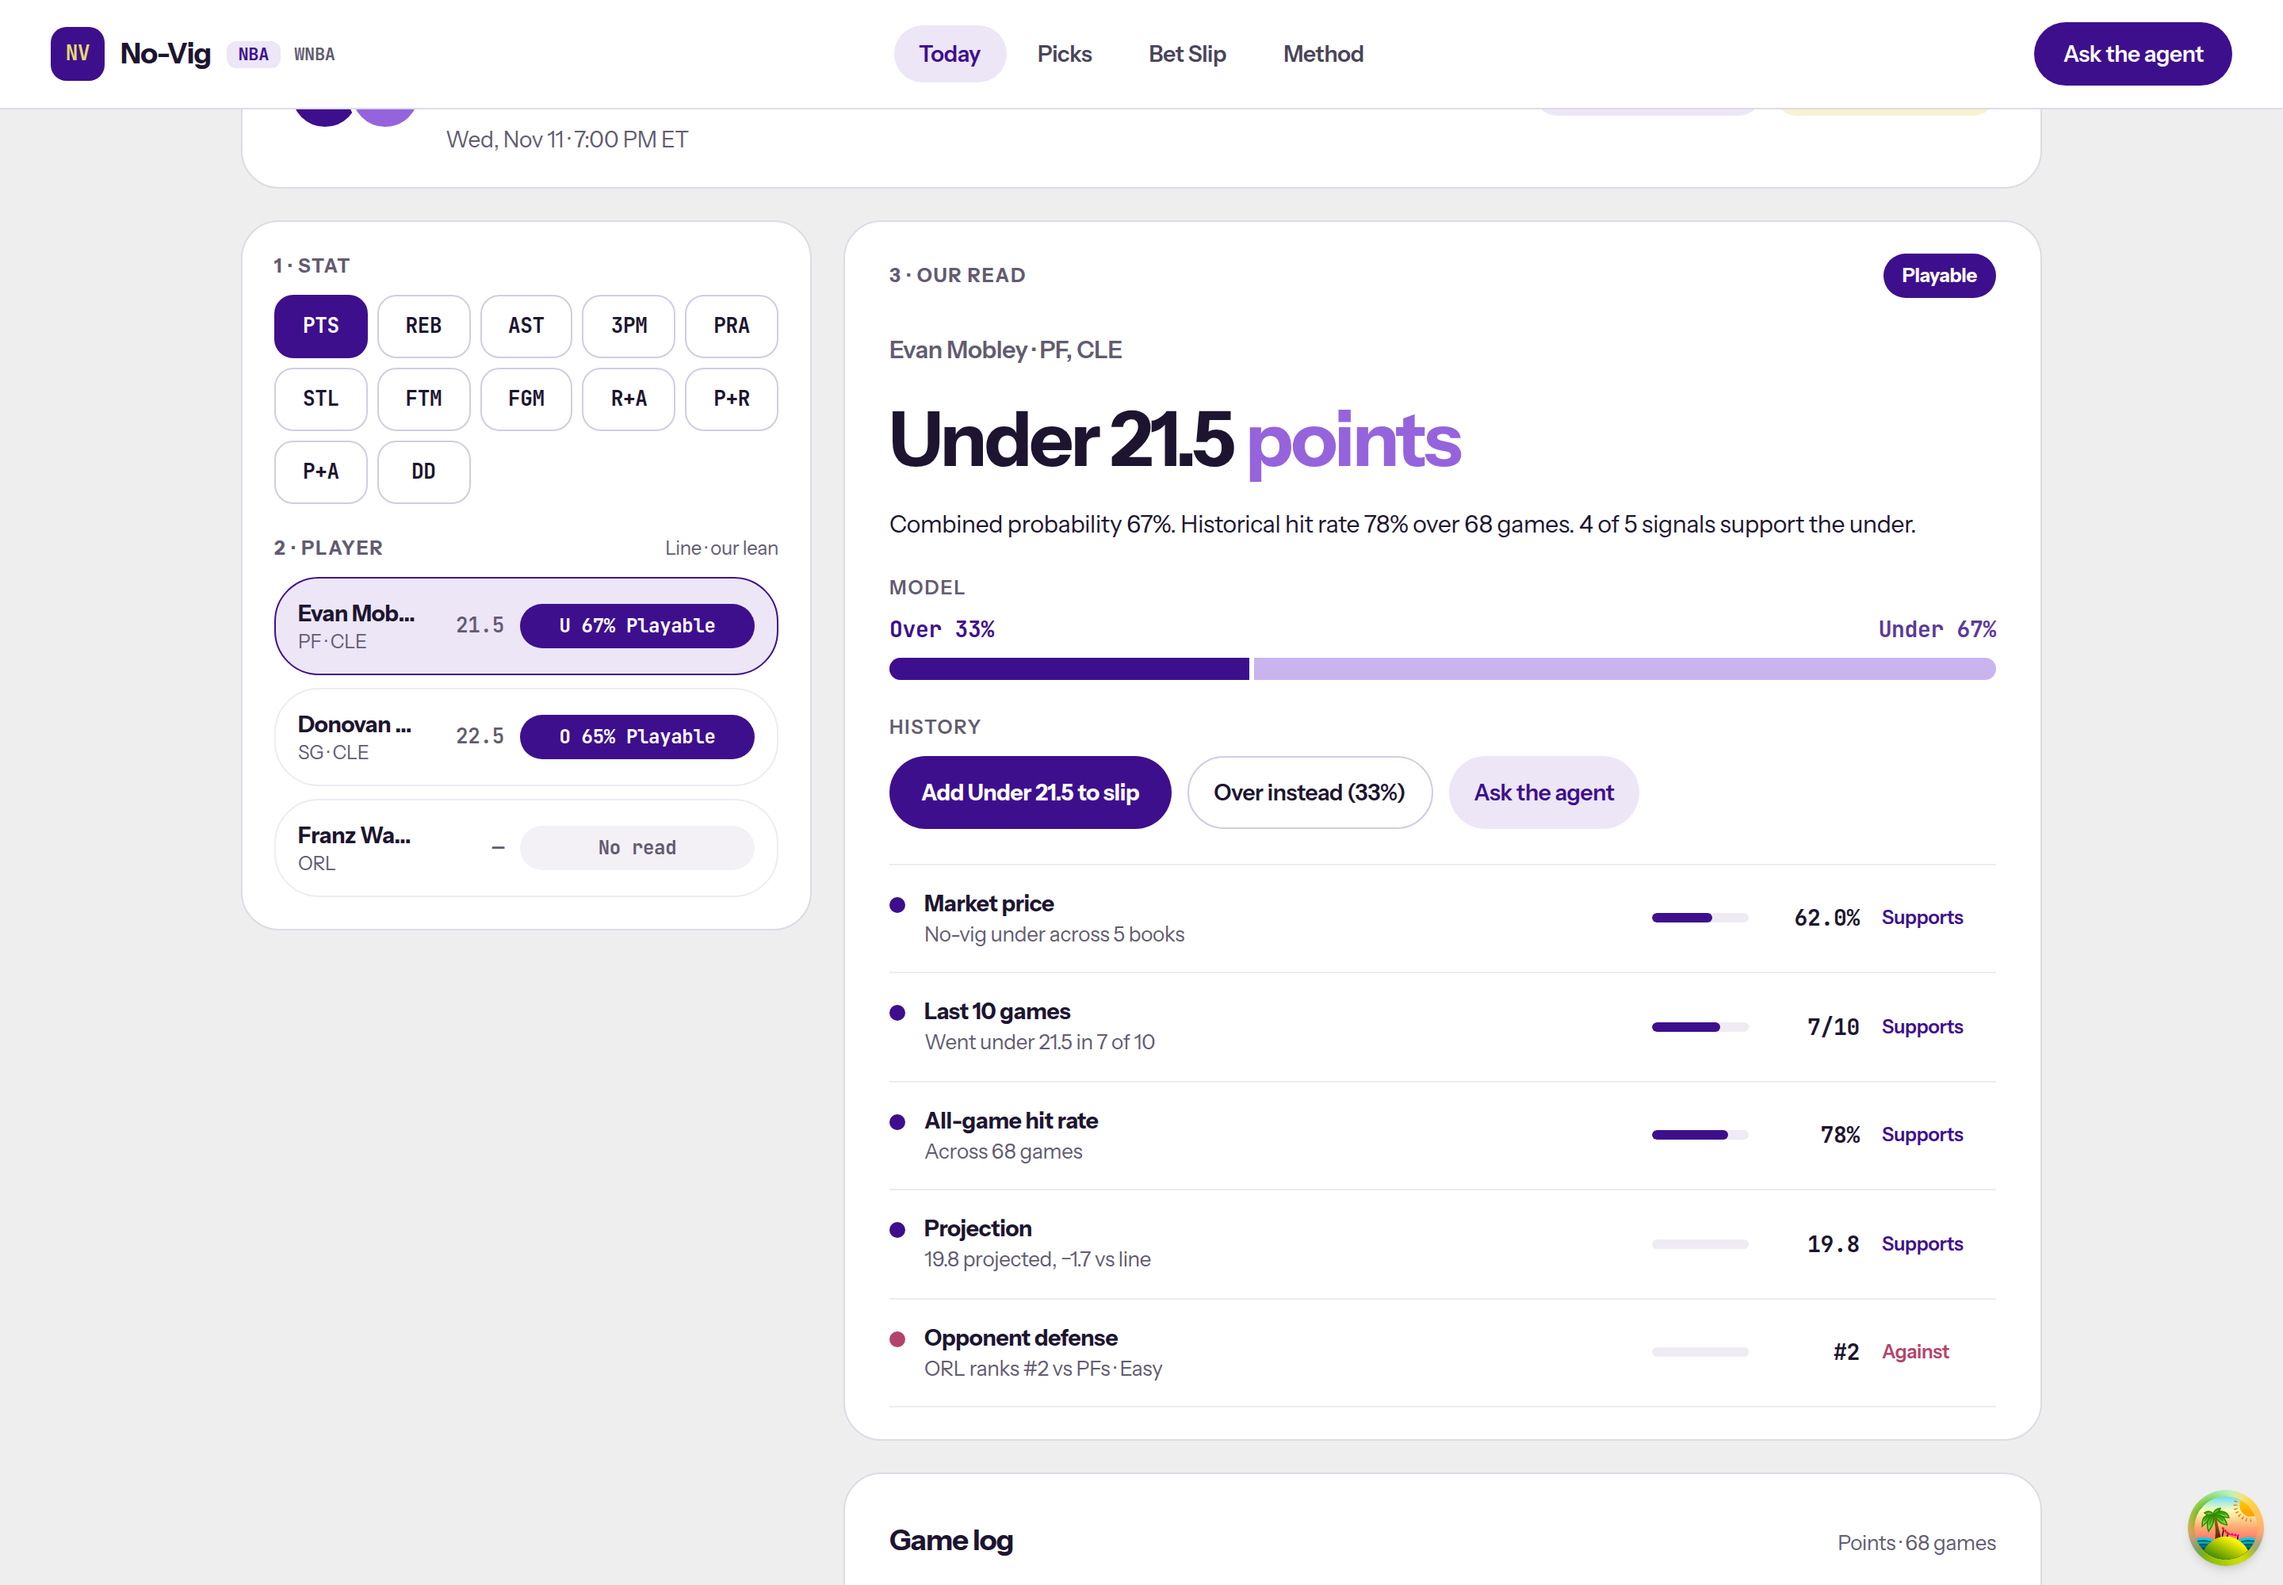
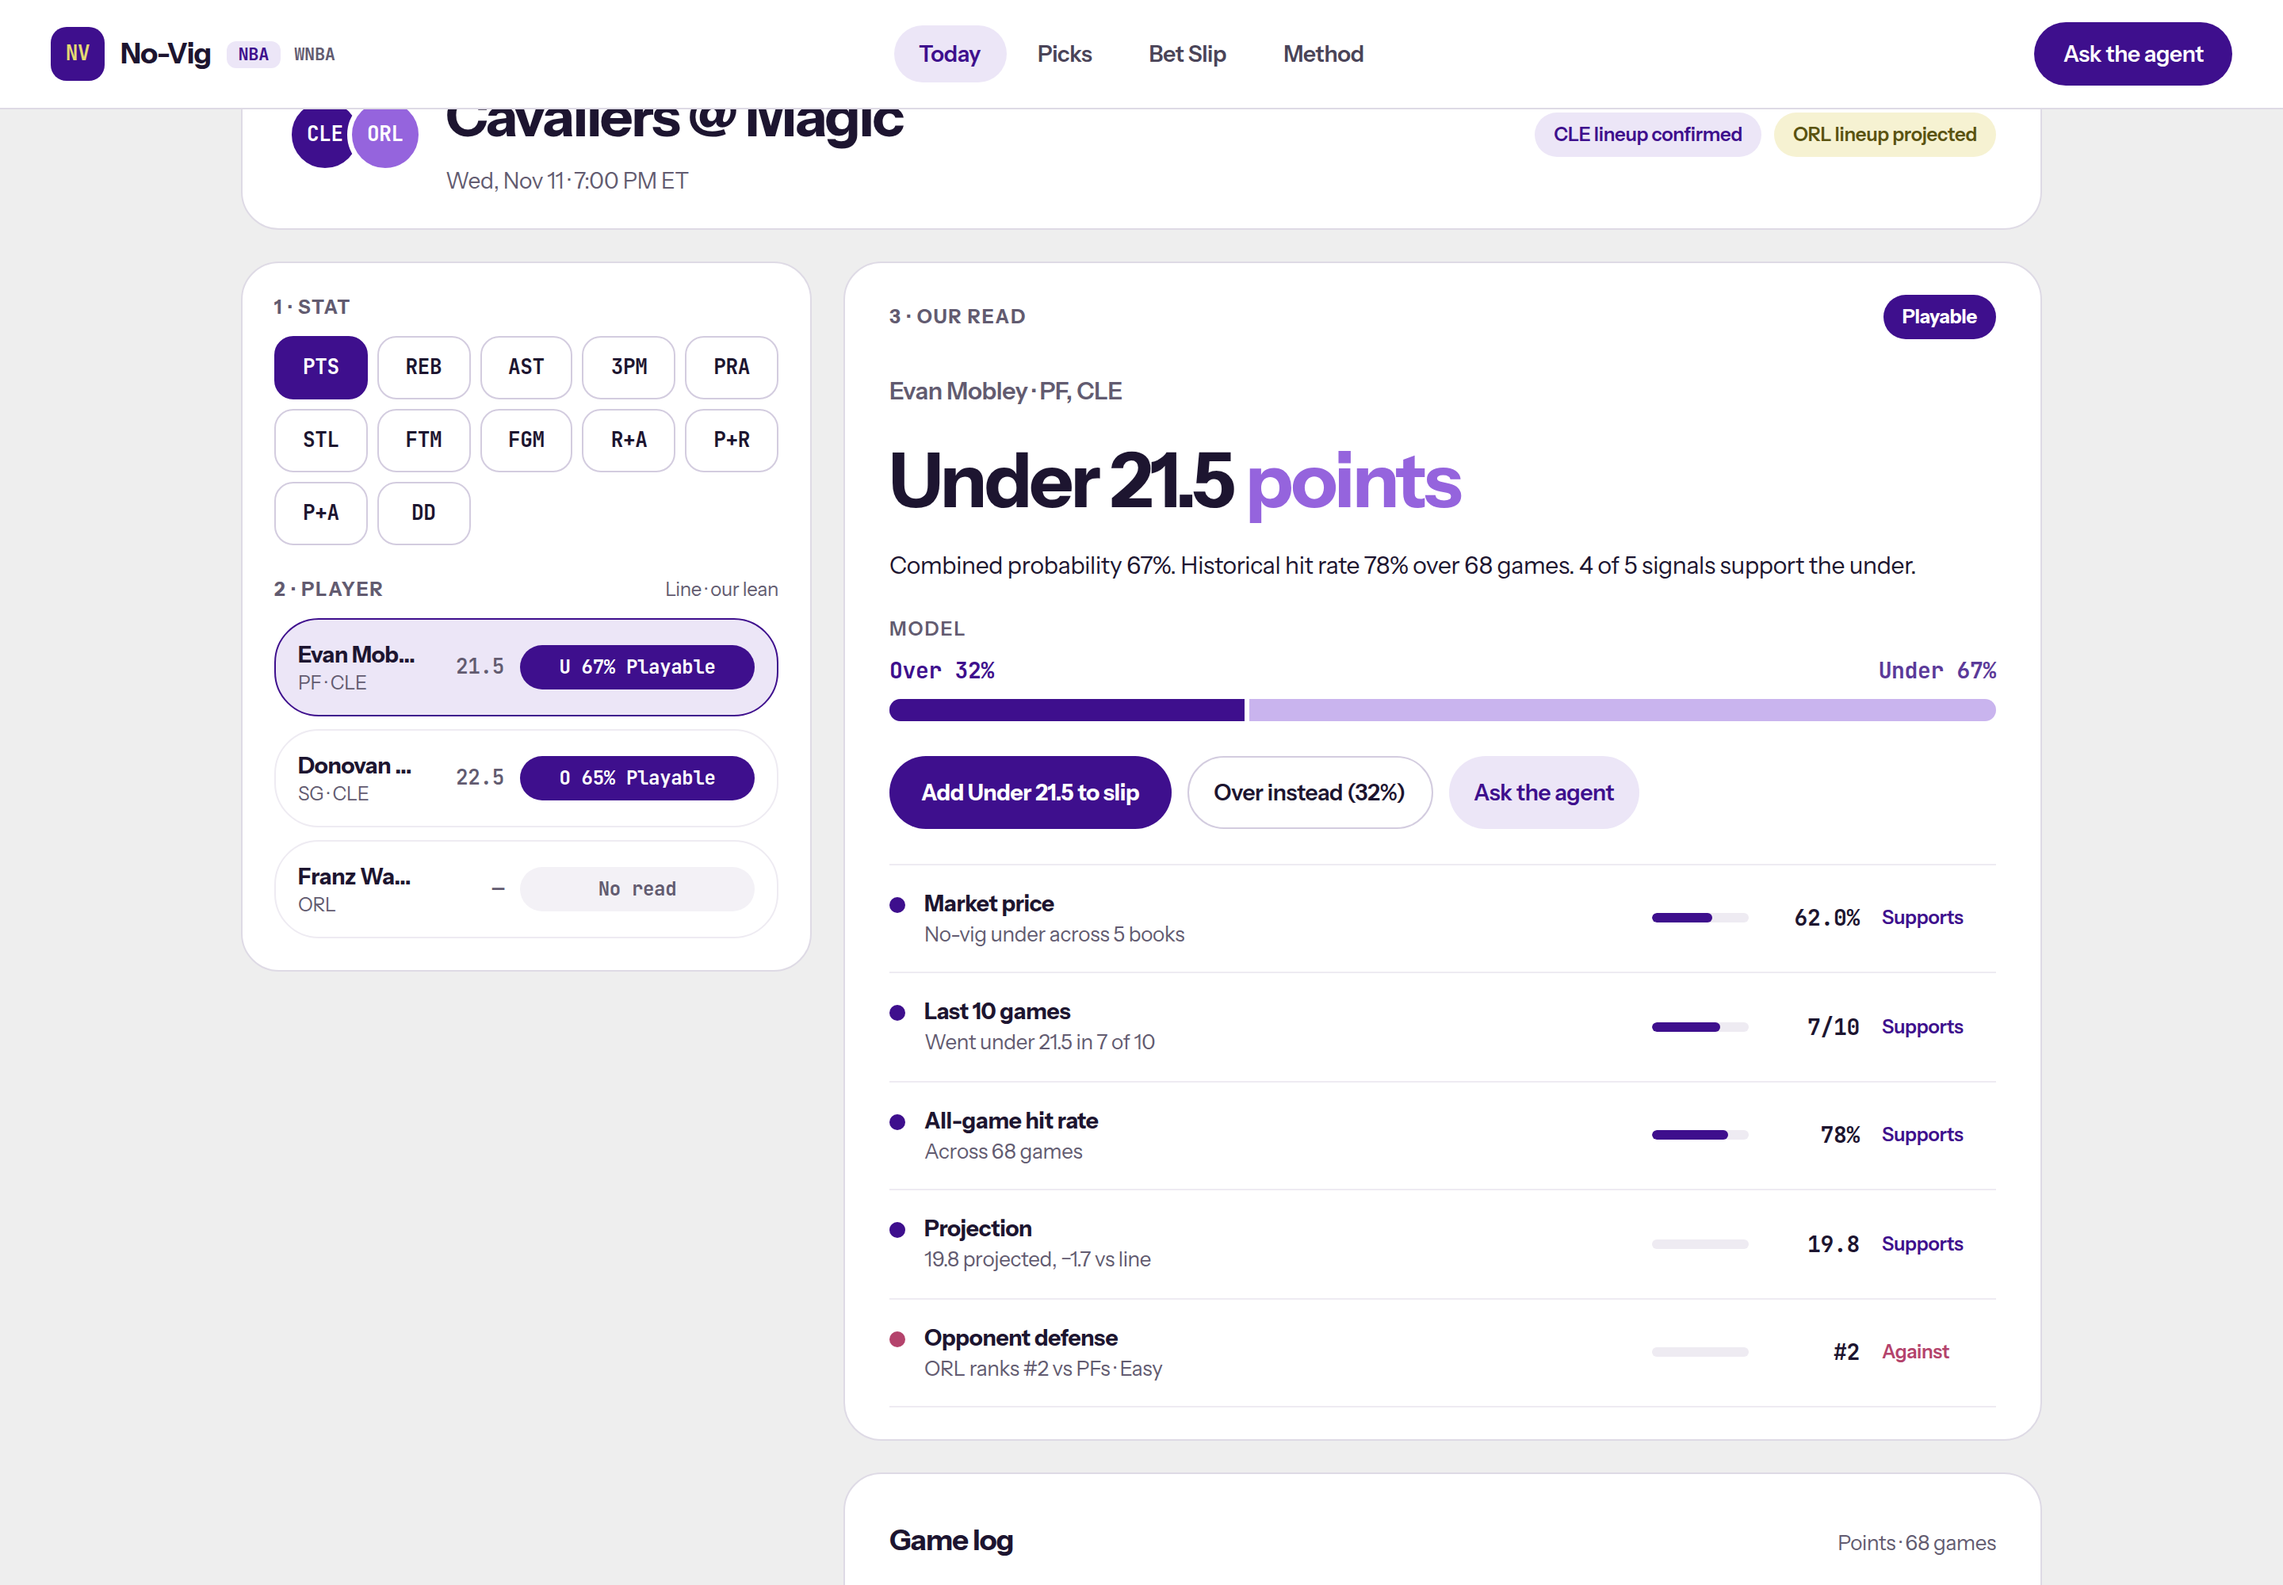
test: record the floored other-side shots without the dev indicator
The event after shots are from next start. At combined 0.675 the bar, the button, and the slip pill all print 32%, and the model complement has no History heading.

diff --git a/docs/task-summaries/SPO-120e-design-layout-fixes.md b/docs/task-summaries/SPO-120e-design-layout-fixes.md
@@ -48,7 +48,7 @@ The desktop Our read heading "History" is drawn only when `model.other.combined_
 
 ## Tests / Verification
 
-- Frontend `npx vitest run`: 69 files, 527 tests, passed.
+- Frontend `npx vitest run`: 71 files, 549 tests, passed. That includes the 22 QA cases in `other-side-parity.qa.test.tsx` and `responsive-md-only.qa.test.tsx`.
 - `npx tsc --noEmit`: passed.
 - `npm run lint`: passed, no warnings or errors.
 - `npm run build`: passed. Next.js 14.2.35 compiled and generated 10 static pages. `/wnba`, `/wnba/betslip`, `/wnba/event/[eventId]`, `/wnba/picks`, and `/wnba/player/[name]` are still in the route list.
@@ -72,7 +72,7 @@ The desktop Our read heading "History" is drawn only when `model.other.combined_
 | Bookmaker picker is one line below `md` and open from `md` | `BookmakerSelect.test.tsx` |
 | Hero eyebrow is `text-accent`, not `text-eyebrow` | `TodayBoard.test.tsx` |
 
-Screenshots were taken with system Chrome against `next dev` on port 3000 and a local mock on port 8000. The mock pick is Evan Mobley, under 21.5 points, `combined_probability` `0.67`, historical `p_over` `0.22`. Viewport 390×900 for the three mobile shots and 1440×900 (event page 1440×1000) for the two desktop shots.
+The first screenshots were taken with system Chrome against `next dev` on port 3000 and a local mock on port 8000. Evan Mobley was under 21.5 points, `combined_probability` `0.67`, historical `p_over` `0.22`. The event after shots were retaken from `next start` so the dev indicator is absent. That retake uses `combined_probability` `0.675`, which floors to a 67 / 32 bar. Viewport 390×900 for the mobile shots and 1440×1000 for the event page.
 
 Measured on that mock:
 
@@ -80,10 +80,14 @@ Measured on that mock:
 |---|---|---|
 | First pick card height at 390px | 526px | 281px |
 | Hero eyebrow computed color | `rgb(123, 79, 196)` (`#7B4FC4`) | `rgb(228, 218, 114)` (`#E4DA72`) |
-| Web other-side button | `Over instead (22%)` | `Over instead (33%)` |
-| Mobile other-side button | `HISTORY Over 22%` | `Over 33%` |
+| Web other-side button | `Over instead (22%)` | `Over instead (32%)` |
+| Mobile other-side button | `HISTORY Over 22%` | `Over 32%` |
+| Model bar | `Over 33%` / `Under 67%` | `Over 32%` / `Under 67%` |
+| Slip pill for the other side |  | `32%` |
 | Odds page overflow at 390px | 0 | 0 |
 | Odds table overflow inside its scroller | 499px | 499px |
+
+The before column is `combined_probability` `0.67`. The retaken after column for the bar, the buttons, and the slip is `0.675`: the other side is `0.325`, and the bar, `Over instead (32%)`, `Over 32%`, and the slip pill all print `32%`. There is no History heading on that model complement. On the production server, `0.67` still prints `33%` on the bar, both buttons, and the slip pill.
 
 ### Screenshots
 
